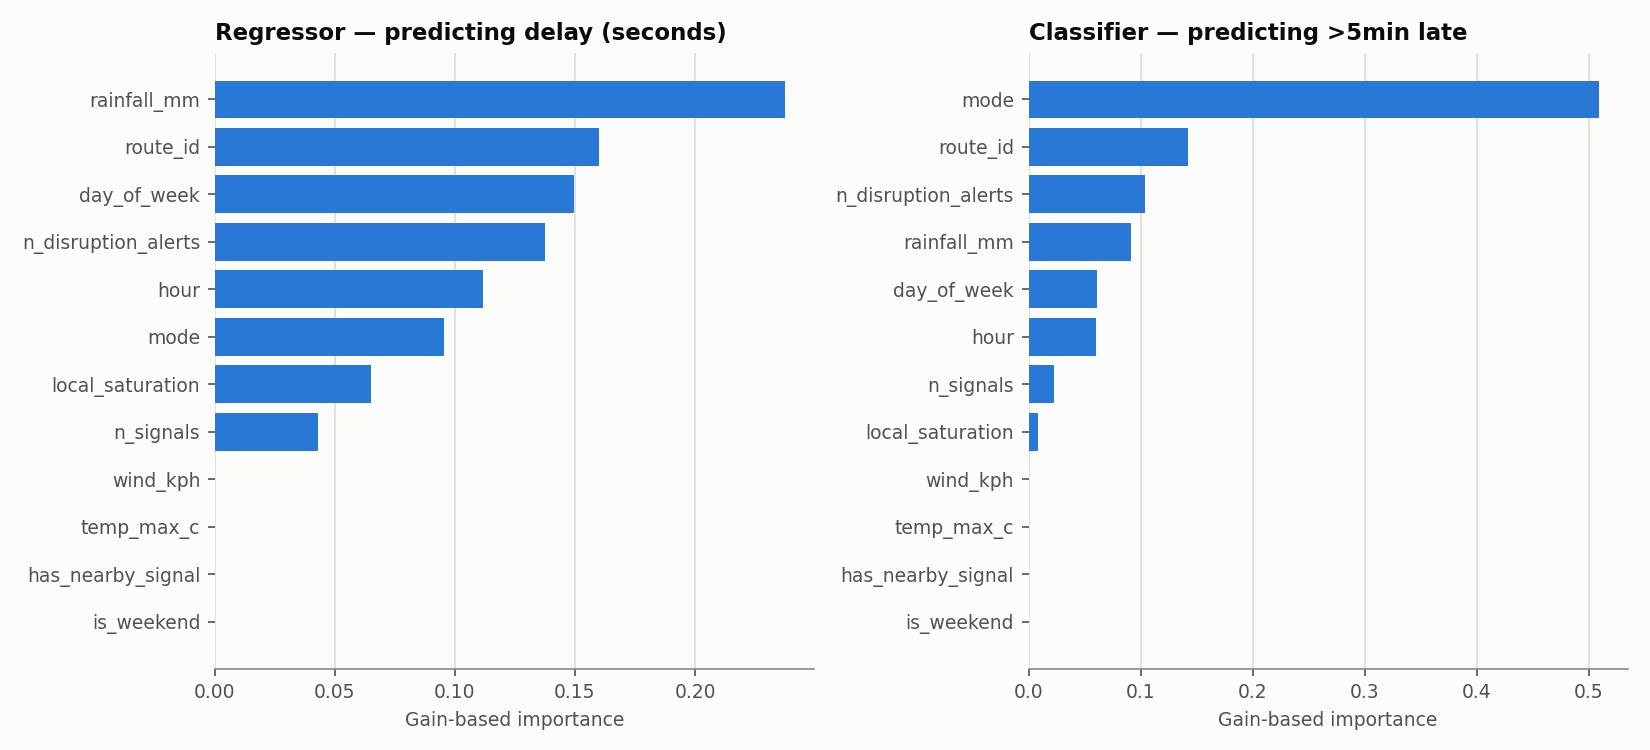
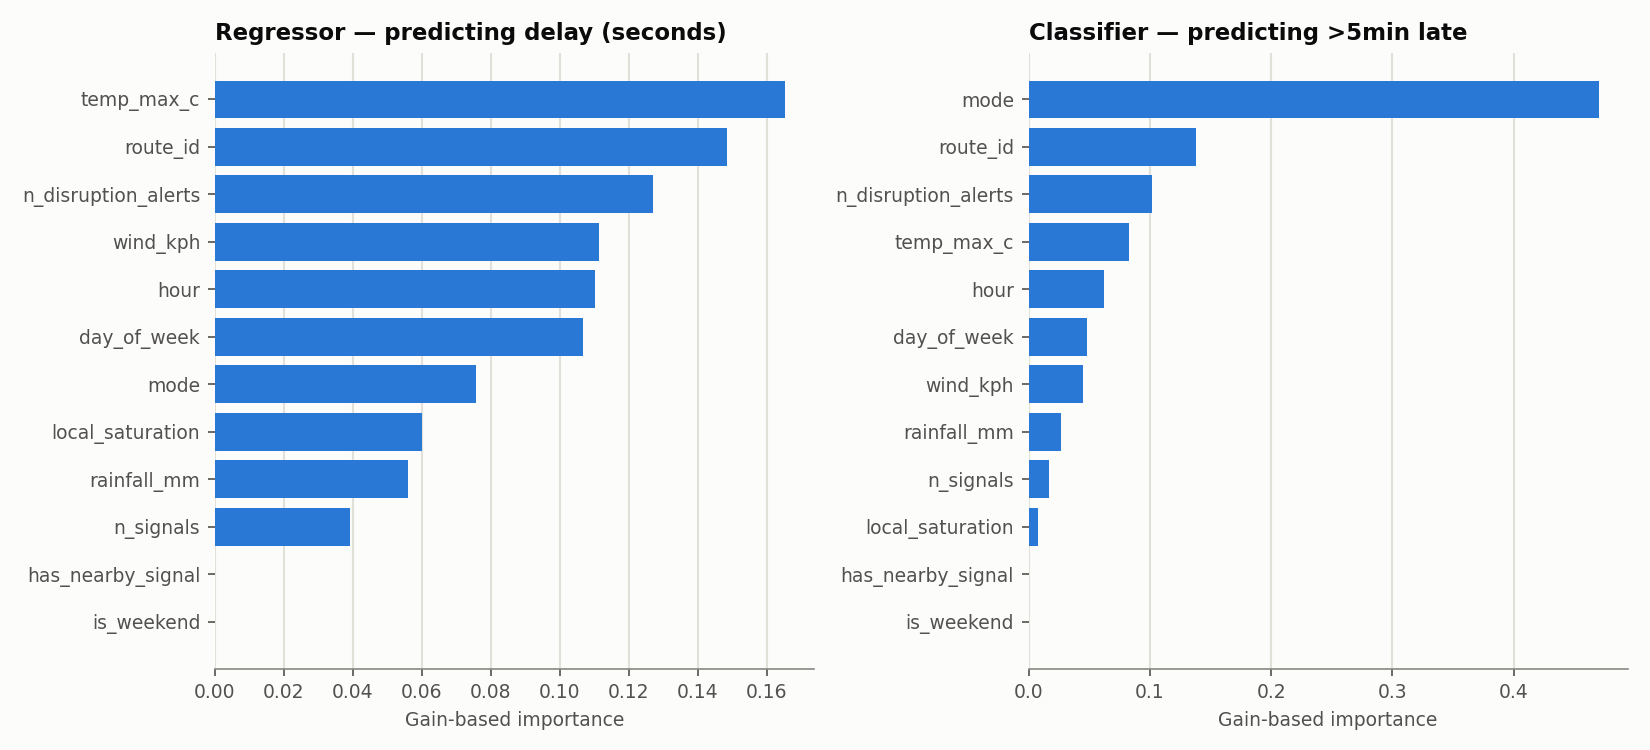
Fix dashboard map and priority chart; keep weather data current
- Maps: Carto's free raster basemap now returns an 'API key required'
  placeholder on every tile. Draw Esri's keyless dark canvas as a raster
  layer instead (px.scatter_map isn't supported by Streamlit's plotly.js).
- Charts: Plotly converted route names like '561' to numbers, putting the
  priority bar chart on a numeric axis and dropping SMBI/F11/F1. Set
  autotypenumbers='strict' in the shared chart style.
- Priority callout: '2th percentile' -> '2nd'.
- Congestion trend shown in Brisbane time rather than UTC.
- Weather had stopped at 25 Sep because nothing re-ran the loader;
  refresh_all now runs it first. Backfilled, and the delay model
  retrained: weather doesn't help (278s MAE vs 272s without, baseline 258s).
- Ignore the local linkedin/ screenshot folder.

diff --git a/dashboard/app.py b/dashboard/app.py
@@ -43,6 +43,21 @@ CAUSE_COLORS = {
     "OTHER_CAUSE": "#5b6472",
 }
 BRISBANE_CENTER = {"lat": -27.4698, "lon": 153.0251}
+# Carto's free raster basemap (Plotly's "carto-darkmatter") now serves an
+# "API key required" placeholder, and the newer px.scatter_map isn't supported
+# by Streamlit's bundled plotly.js, so the maps draw Esri's keyless dark canvas
+# tiles as a raster layer instead.
+DARK_BASEMAP_LAYERS = [
+    {
+        "below": "traces",
+        "sourcetype": "raster",
+        "sourceattribution": "Esri, HERE, Garmin, © OpenStreetMap contributors",
+        "source": [
+            "https://services.arcgisonline.com/ArcGIS/rest/services/Canvas/"
+            "World_Dark_Gray_Base/MapServer/tile/{z}/{y}/{x}"
+        ],
+    }
+]
 TIME_BLOCK_ORDER = [
     "Weekday (12:00am-8:29:59am)",
     "Weekday (8:30am-2:59:59pm)",
@@ -147,6 +162,9 @@ def style_fig(fig: go.Figure, height: int = 380, showlegend: bool | None = None)
         margin=dict(t=45, b=10, l=10, r=10),
         legend=dict(bgcolor="rgba(0,0,0,0)"),
         hoverlabel=dict(bgcolor="#161b22", font_size=12),
+        # Route names like "561" are text, not numbers; without this Plotly
+        # converts them and draws a numeric axis that drops "SMBI", "F11" etc.
+        autotypenumbers="strict",
     )
     if showlegend is not None:
         layout_kwargs["showlegend"] = showlegend
@@ -154,6 +172,11 @@ def style_fig(fig: go.Figure, height: int = 380, showlegend: bool | None = None)
     fig.update_xaxes(gridcolor="rgba(255,255,255,0.07)", zerolinecolor="rgba(255,255,255,0.15)")
     fig.update_yaxes(gridcolor="rgba(255,255,255,0.07)", zerolinecolor="rgba(255,255,255,0.15)")
     return fig
+
+
+def ordinal(n: int) -> str:
+    suffix = "th" if 11 <= n % 100 <= 13 else {1: "st", 2: "nd", 3: "rd"}.get(n % 10, "th")
+    return f"{n}{suffix}"
 
 
 def classify_delay(delay_sec) -> str:
@@ -328,7 +351,7 @@ def load_traffic_trend(hours: int = 6) -> pd.DataFrame:
         ORDER BY 1
         """,
         engine,
-    )
+    ).assign(recorded_at=lambda d: pd.to_datetime(d["recorded_at"], utc=True).dt.tz_convert("Australia/Brisbane"))
 
 
 @st.cache_data(ttl=CACHE_TTL_FAST)
@@ -719,10 +742,11 @@ with tab_map:
                 hover_data={"mode": True, "speed": ":.0f", "arrival_delay_sec": True, "latitude": False, "longitude": False},
                 zoom=9.6,
                 center=BRISBANE_CENTER,
-                mapbox_style="carto-darkmatter",
+                mapbox_style="white-bg",
             )
             fig.update_traces(marker=dict(size=9, opacity=0.85))
             style_fig(fig, height=560)
+            fig.update_layout(mapbox_layers=DARK_BASEMAP_LAYERS)
             fig.update_layout(legend=dict(orientation="h", y=0.02, x=0.01, bgcolor="rgba(13,17,23,0.6)"))
             st.plotly_chart(fig, use_container_width=True)
 
@@ -751,10 +775,11 @@ with tab_map:
                 hover_data={"avg_delay_sec": ":.0f", "n_visits": True, "stop_lat": False, "stop_lon": False},
                 zoom=9.6,
                 center=BRISBANE_CENTER,
-                mapbox_style="carto-darkmatter",
+                mapbox_style="white-bg",
             )
             fig.update_traces(marker=dict(opacity=0.75))
             style_fig(fig, height=560)
+            fig.update_layout(mapbox_layers=DARK_BASEMAP_LAYERS)
             fig.update_coloraxes(colorbar=dict(title="Avg delay (s)", bgcolor="rgba(0,0,0,0)"))
             st.plotly_chart(fig, use_container_width=True)
 
@@ -1059,8 +1084,9 @@ with tab_priority:
         top = priority_f.sort_values("priority_score", ascending=False).iloc[0]
         insight(
             f"<b>Route {top['route']}</b> ({top['route_long_name']}) tops the priority list: "
-            f"{top['avg_weekday_riders']:.0f} riders/weekday at the {top['demand_pctile']:.0f}th percentile of "
-            f"demand, but only {top['on_time_pct']:.0f}% on-time ({top['otp_pctile']:.0f}th percentile of "
+            f"{top['avg_weekday_riders']:,.0f} riders/weekday at the {ordinal(round(top['demand_pctile']))} "
+            f"percentile of demand, but only {top['on_time_pct']:.0f}% on-time "
+            f"({ordinal(round(top['otp_pctile']))} percentile of "
             "reliability, citywide)."
         )
 
@@ -1143,8 +1169,8 @@ with tab_traffic:
                     "worth checking against that day's on-time performance once the delay-prediction model is built."
                 )
         st.caption(
-            "Daily Brisbane observations from Open-Meteo. Feeds the delay-prediction model once "
-            "it's built (next step)."
+            "Daily Brisbane observations from Open-Meteo, also used as features in the "
+            "delay-prediction model."
         )
 
 st.divider()

diff --git a/scripts/refresh_all.py b/scripts/refresh_all.py
@@ -34,6 +34,10 @@ DBT_DIR = REPO_ROOT / "dbt"
 VENV_PYTHON = REPO_ROOT / ".venv" / "bin" / "python"
 
 PIPELINE = [
+    # Weather isn't polled like transit/traffic; it's an idempotent upsert of
+    # Open-Meteo's daily history, so it must run here or the delay model's
+    # weather features go stale (they did: stuck at 25 Sep until 8 Oct).
+    "-m ingestion.weather",
     "notebooks/network_summary.py",
     "notebooks/realtime_summary.py",
     "notebooks/demand_intelligence.py",
@@ -83,7 +87,10 @@ def run_script(rel_path: str) -> tuple[str, bool, float]:
     python = str(VENV_PYTHON) if VENV_PYTHON.exists() else sys.executable
     env = {**_env(), "SKIP_DBT_REFRESH": "1"}
     start = time.monotonic()
-    result = subprocess.run([python, rel_path], cwd=REPO_ROOT, env=env, capture_output=True, text=True, check=False)
+    # "-m package.module" entries run as modules (for ingestion/*, which
+    # import `ingestion.config` and so can't run as plain script paths).
+    args = rel_path.split() if rel_path.startswith("-m ") else [rel_path]
+    result = subprocess.run([python, *args], cwd=REPO_ROOT, env=env, capture_output=True, text=True, check=False)
     elapsed = time.monotonic() - start
     print(result.stdout[-1500:])
     ok = result.returncode == 0

diff --git a/docs/delay_model_card.md b/docs/delay_model_card.md
@@ -24,7 +24,7 @@ Two XGBoost models — a regressor for arrival delay in seconds, and a classifie
 
 | | MAE |
 |---|---|
-| Model | 272s |
+| Model | 278s |
 | Baseline (predict train-set mean) | 258s |
 
 ### Classifier — is this trip >5min late?
@@ -32,14 +32,14 @@ Two XGBoost models — a regressor for arrival delay in seconds, and a classifie
 | Metric | Model | Baseline (majority class) |
 |---|---|---|
 | Accuracy | 0.845 | 0.845 |
-| Precision | 0.414 | — |
-| Recall | 0.012 | — |
-| F1 | 0.024 | — |
-| ROC-AUC | 0.617 | 0.500 |
+| Precision | 0.098 | — |
+| Recall | 0.001 | — |
+| F1 | 0.001 | — |
+| ROC-AUC | 0.613 | 0.500 |
 
 Test-set positive rate (actually >5min late): 15.5%
 
-**The time-split model currently loses to its own baseline (272s MAE vs. 258s; 0.845 accuracy vs. 0.845).** The test set covers 2026-10-04 07:28 to 2026-10-08 13:12 UTC. Average delay swings a lot from day to day (2026-09-25: 180s avg; 2026-09-26: 144s avg; 2026-09-27: 47s avg; 2026-09-28: 133s avg; 2026-09-29: 83s avg; 2026-09-30: 187s avg; 2026-10-01: 86s avg; 2026-10-02: 85s avg; 2026-10-03: 136s avg; 2026-10-04: 143s avg; 2026-10-05: 146s avg; 2026-10-06: -17s avg; 2026-10-07: -12s avg; 2026-10-08: 79s avg), and daily row counts are very uneven (244 to 257,660) because collection had gaps. Route, hour and day-of-week features can't anticipate a day-level swing (a strike, an incident, a holiday timetable) they haven't seen, so a constant set to the training mean is hard to beat whenever the test days behave differently from the training days. The features also have no public-holiday flag, so a holiday is treated as an ordinary weekday. More days of data spanning several of these swings, and a holiday feature, are the fixes; a different model isn't.
+**The time-split model currently loses to its own baseline (278s MAE vs. 258s; 0.845 accuracy vs. 0.845).** The test set covers 2026-10-04 07:28 to 2026-10-08 13:12 UTC. Average delay swings a lot from day to day (2026-09-25: 180s avg; 2026-09-26: 144s avg; 2026-09-27: 47s avg; 2026-09-28: 133s avg; 2026-09-29: 83s avg; 2026-09-30: 187s avg; 2026-10-01: 86s avg; 2026-10-02: 85s avg; 2026-10-03: 136s avg; 2026-10-04: 143s avg; 2026-10-05: 146s avg; 2026-10-06: -17s avg; 2026-10-07: -12s avg; 2026-10-08: 79s avg), and daily row counts are very uneven (244 to 257,660) because collection had gaps. Route, hour and day-of-week features can't anticipate a day-level swing (a strike, an incident, a holiday timetable) they haven't seen, so a constant set to the training mean is hard to beat whenever the test days behave differently from the training days. The features also have no public-holiday flag, so a holiday is treated as an ordinary weekday. More days of data spanning several of these swings, and a holiday feature, are the fixes; a different model isn't.
 
 ### Random split (diagnostic only — not a valid deployment estimate)
 
@@ -47,8 +47,8 @@ To check whether the model can learn *any* signal at all from these features, ab
 
 | | Regressor MAE | Classifier accuracy | Classifier ROC-AUC |
 |---|---|---|---|
-| Model | 214s | 0.874 | 0.843 |
-| Baseline | 236s | 0.862 | 0.500 |
+| Model | 214s | 0.873 | 0.845 |
+| Baseline | 236s | 0.860 | 0.500 |
 
 The model beats baseline here, confirming the features do carry real signal — the time-split result above is a problem of too few, too uneven days, not a broken feature set.
 

diff --git a/docs/findings_summary.md b/docs/findings_summary.md
@@ -69,14 +69,16 @@ Source: [`weekend_frequency_gap.md`](weekend_frequency_gap.md).
 
 I trained XGBoost models to predict delay from route, time, nearby traffic, weather and active
 disruption alerts. On a fair time-based split, using about two weeks of data, they still **don't
-beat a naive baseline** (272s mean absolute error against 258s; ROC-AUC 0.62 for "more than five
+beat a naive baseline** (278s mean absolute error against 258s; ROC-AUC 0.61 for "more than five
 minutes late"). That's closer than the first run on three and a half days (435s against 258s),
 when a strike disrupted the training days but not the test days. The remaining problem is that
 average delay swings a lot from one day to the next (from about 50s to 190s), and the model has
 nothing that predicts those swings. The test days included the King's Birthday public holiday,
 which the model treats as an ordinary Monday. On a random split, where both sets cover the same
 days, the same features beat the baseline (ROC-AUC 0.84). So the features carry signal; what's
-missing is more days, fewer gaps, and calendar features such as holidays.
+missing is more days, fewer gaps, and calendar features such as holidays. Weather didn't help: weather data had
+stopped updating on 25 September, and backfilling it made the error slightly worse (278s, from
+272s without it), so there's no detectable weather effect in this window.
 
 Collection also had gaps. Until 4 October the traffic poller kept hitting the council API's
 daily limit and missed most morning peaks, and a database outage stopped all collection from 6

diff --git a/docs/recommendations.md b/docs/recommendations.md
@@ -92,7 +92,7 @@ site visit, not just "add more buses."
 
 **Finding:** [`docs/delay_model_card.md`](delay_model_card.md) — an XGBoost delay-prediction
 model trained on about two weeks of real traffic, weather and delay data still **doesn't beat a
-naive baseline** on a fair (time-based) evaluation (272s mean error against 258s). Daily average
+naive baseline** on a fair (time-based) evaluation (278s mean error against 258s). Daily average
 delay swings widely (from about 50s to 190s), collection had gaps, and the test days included a
 public holiday the features can't represent. A diagnostic random split confirms the features
 (route, hour, congestion, disruption-alert count) do carry real signal.
